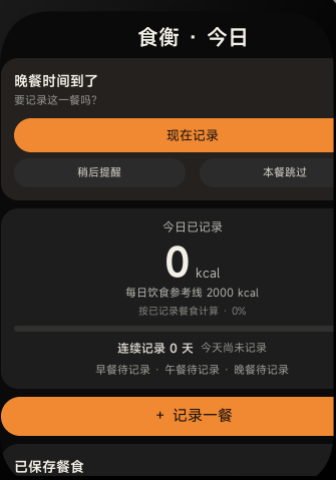
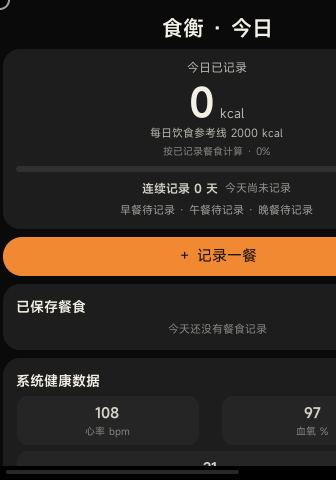
release: finalize narrow-screen contest package

diff --git a/docs/capability-matrix.md b/docs/capability-matrix.md
@@ -6,7 +6,7 @@
 
 - Windows 的 `C:\Users\30537\.vela\sdk\system-images\vela-miwear-watch-5.0` 是普通 2025-07 镜像，不是比赛健康镜像。
 - 比赛 UI 标签是 `vela-miwear-watch-5.0（开发者大赛）`，实际 `imageType` 为 `vela-miwear-watch-5.0-beta`；该比赛镜像已安装，466×466 圆屏 VVD `shihe-health-watch` 已创建并成功启动，启动日志出现 `service_health_onRegister`。
-- 食衡早期 M1 debug RPK 已在 `shihe-health-watch` 完成安装、重启和持久化验证。最终版已移除不再使用的体重录入，尚须用新 debug RPK 重跑截图审核。
+- 食衡 M1 debug RPK 已在 `shihe-health-watch` 完成安装、重启和持久化验证；最终版已移除不再使用的体重录入，并已用最终响应式源码完成截图复核。
 - M3 模拟器验收已完成：新增、编辑、冷重启、历史、删除及即时回算均通过。
 - Ubuntu VM 当前开源 goldfish 构建的 `.config` 同时包含 `CONFIG_FEATURE_SYSTEM_ROUTER=y` 与 `CONFIG_FEATURE_SYSTEM_VELACLAW=y`，但运行时日志确认未注册 `system.router`；该现象不代表所有 openvela 真机都缺少 router。
 - 当前 goldfish 已运行食衡 debug RPK：QuickApp、`system.velaclaw` 与 `ai_agent` 已启动；同一 RPK 从根 URI 启动时使用 index 验证降级页，完整六页流程以 AIoT 比赛模拟器为准。M4 无 Key 运行验收已通过：应用成功调用 `system.velaclaw`，`ai_agent` 记录 `No available backend` 并返回英文基础设施失败回复，应用识别该回复后显示中文本地降级“AI 暂不可用，已保留本地建议”；相关测试与 debug 构建通过。配置 Key 后的成功路径仍待用户私下验证，不记为通过。
@@ -46,7 +46,7 @@
 | 餐时胶囊 | P0，已实现 | 应用打开/恢复计算 pending/later/skipped/completed，已记录时显示餐次与热量 | 无系统闹钟时仍按本地状态在下次打开/恢复判断 | 是；已通过功能测试 |
 | 最近吃过 / 收藏套餐 | P0，已实现 | 最近项、整餐收藏和分类选择已进入六页业务流程 | 目录选择；仍须确认后保存 | 是；已通过构建与模拟器验证 |
 | 一句话记餐与食品目录 | P0，已实现 | 一句话记餐为默认入口；60 项本地食品、四个常见套餐模板、半份/一份/两份缩放及冻结解析样例通过自动测试。466×466 实测文本 picker、台湾卤肉饭展开、确认页，以及快捷目录 60 项、加入和移除均正常 | 最近项、收藏和手动目录位于备用的“快捷选择”；套餐假设和待处理内容明确展示，禁止静默保存 | 是；自动测试、debug 构建与 466×466 关键流程通过 |
-| 今日记录与 7 天摘要 | P0，已实现 | 首页只使用已保存餐食计算摄入进度、三餐状态和连续记录；7 天摘要只计算有记录天数、有记录日平均摄入与每日餐数 | 数据不足时如实显示零值和“仅根据已记录餐食”提示 | 是；纯计算测试与六页 debug 构建通过，新版 466×466 截图待审核 |
+| 今日记录与 7 天摘要 | P0，已实现 | 首页只使用已保存餐食计算摄入进度、三餐状态和连续记录；7 天摘要只计算有记录天数、有记录日平均摄入与每日餐数 | 数据不足时如实显示零值和“仅根据已记录餐食”提示 | 是；纯计算测试、六页 bundle 与三尺寸布局复核通过 |
 | 餐食修改与删除 | P0，已实现 | 首页和历史即时回算、冷重启保留已通过模拟器验收 | 操作失败保留原记录并提示 | 是；已通过模拟器验证 |
 | 系统运动数据 | 当前不可用 | 本次比赛 `service.health` 仅开放 HEART_RATE/SPO2/STRESS，无法取得系统步数、运动记录或活动热量汇总 | 不生成 Mock，不用心率反推，不提供可被误解为系统数据的手动入口 | 否；未纳入初赛范围 |
 | goldfish RPK | P0 部署证据 | 历史 production RC1 已解包推送并由 `vapp` 启动；最终响应式源码的 production RPK 已重新生成并通过静态发布审计，但截止日 VM SSH 超时，尚未将最终包重新部署到 goldfish | index 明示环境边界并提供 VelaClaw 无 Key 降级验证；VM 不可用时如实保留历史运行证据，不伪造最终复验 | 否；初赛完整流程以 AIoT 比赛模拟器为准 |

diff --git a/docs/test-report.md b/docs/test-report.md
@@ -7,8 +7,8 @@
 - 包名：`com.openvela.contest2026.team474.shihe`
 - 版本：`1.0.0`（`versionCode: 1`）
 - 最终生产包：`com.openvela.contest2026.team474.shihe.release.1.0.0.rpk`
-- 文件大小：84,797 bytes
[1 lines of base64/hex data omitted]
+- 文件大小：84,803 bytes
[1 lines of base64/hex data omitted]
 
 本报告只记录已经实际完成的验证。最终生产包已由当前响应式源码重新生成并完成静态发布审计；用户私下配置 `tp-` Key 后的 VelaClaw 成功回复尚未作为通过项，它不是 P0 发布门禁。
 

diff --git a/logs/README.md b/logs/README.md
@@ -2,7 +2,7 @@
 
 存放你在开发中与 AI 工具的对话日志，和作品代码一并提交。
 
-> 本目录现在是**示例**，请替换成你自己导出的真实日志（删掉示例的 `your-github-login/` 目录）。
+`logs/AuroraZW/` 保存本项目由比赛 hook 采集的真实 AI Coding 日志；仓库中不存在 `your-github-login/` 示例占位目录。34 份 JSONL、1,383 个事件已于 2026-09-20 使用官方 `validate-log.py` 校验为 `ALL OK`。
 
 ## 目录结构
 

diff --git a/README.md b/README.md
@@ -60,8 +60,8 @@ npm run release
 
 ```text
 quickapp/shihe/releases/com.openvela.contest2026.team474.shihe.release.1.0.0.rpk
-文件大小: 84,797 bytes
-SHA-256: 341da1032b20fcbd920bf66d89ed2f551be60f8f7f185a8e248026f61ee1c8ee
+文件大小: 84,803 bytes
+SHA-256: 5de212c75943e345a207c830e98c8ad373cfa4625d6535dc380bbf020ea62502
 ```
 
 ## AIoT 比赛模拟器运行
